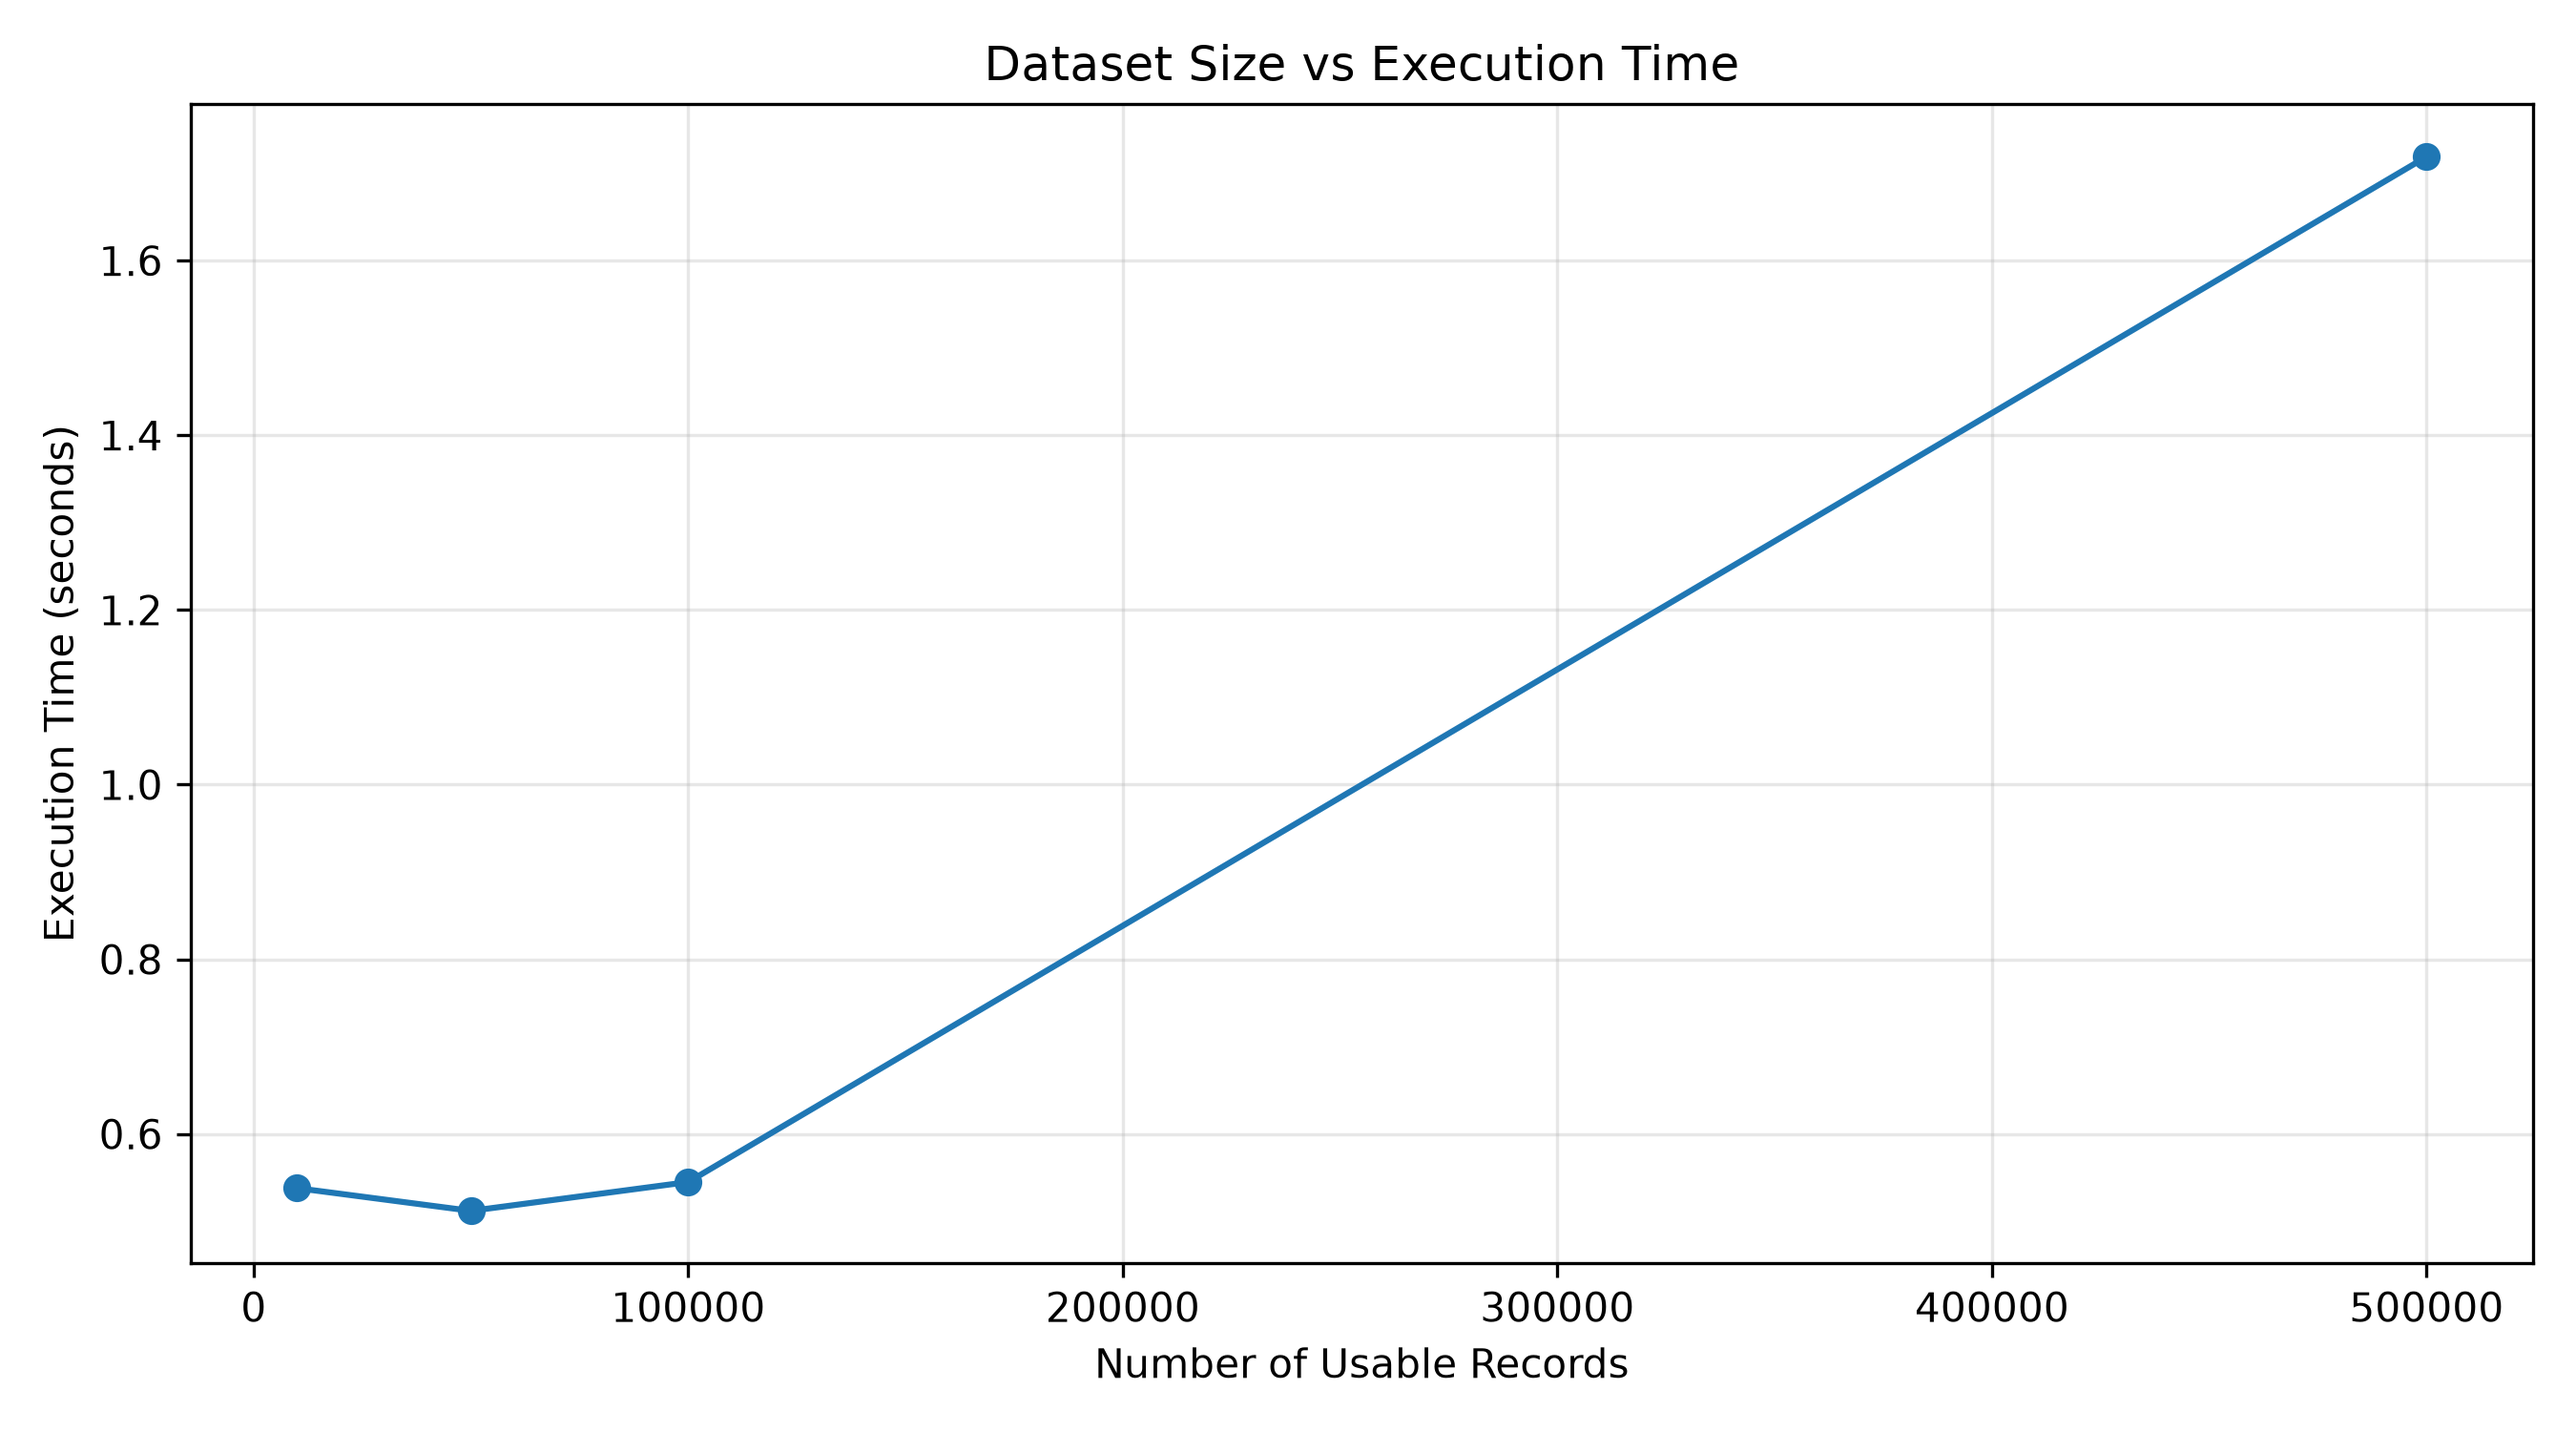
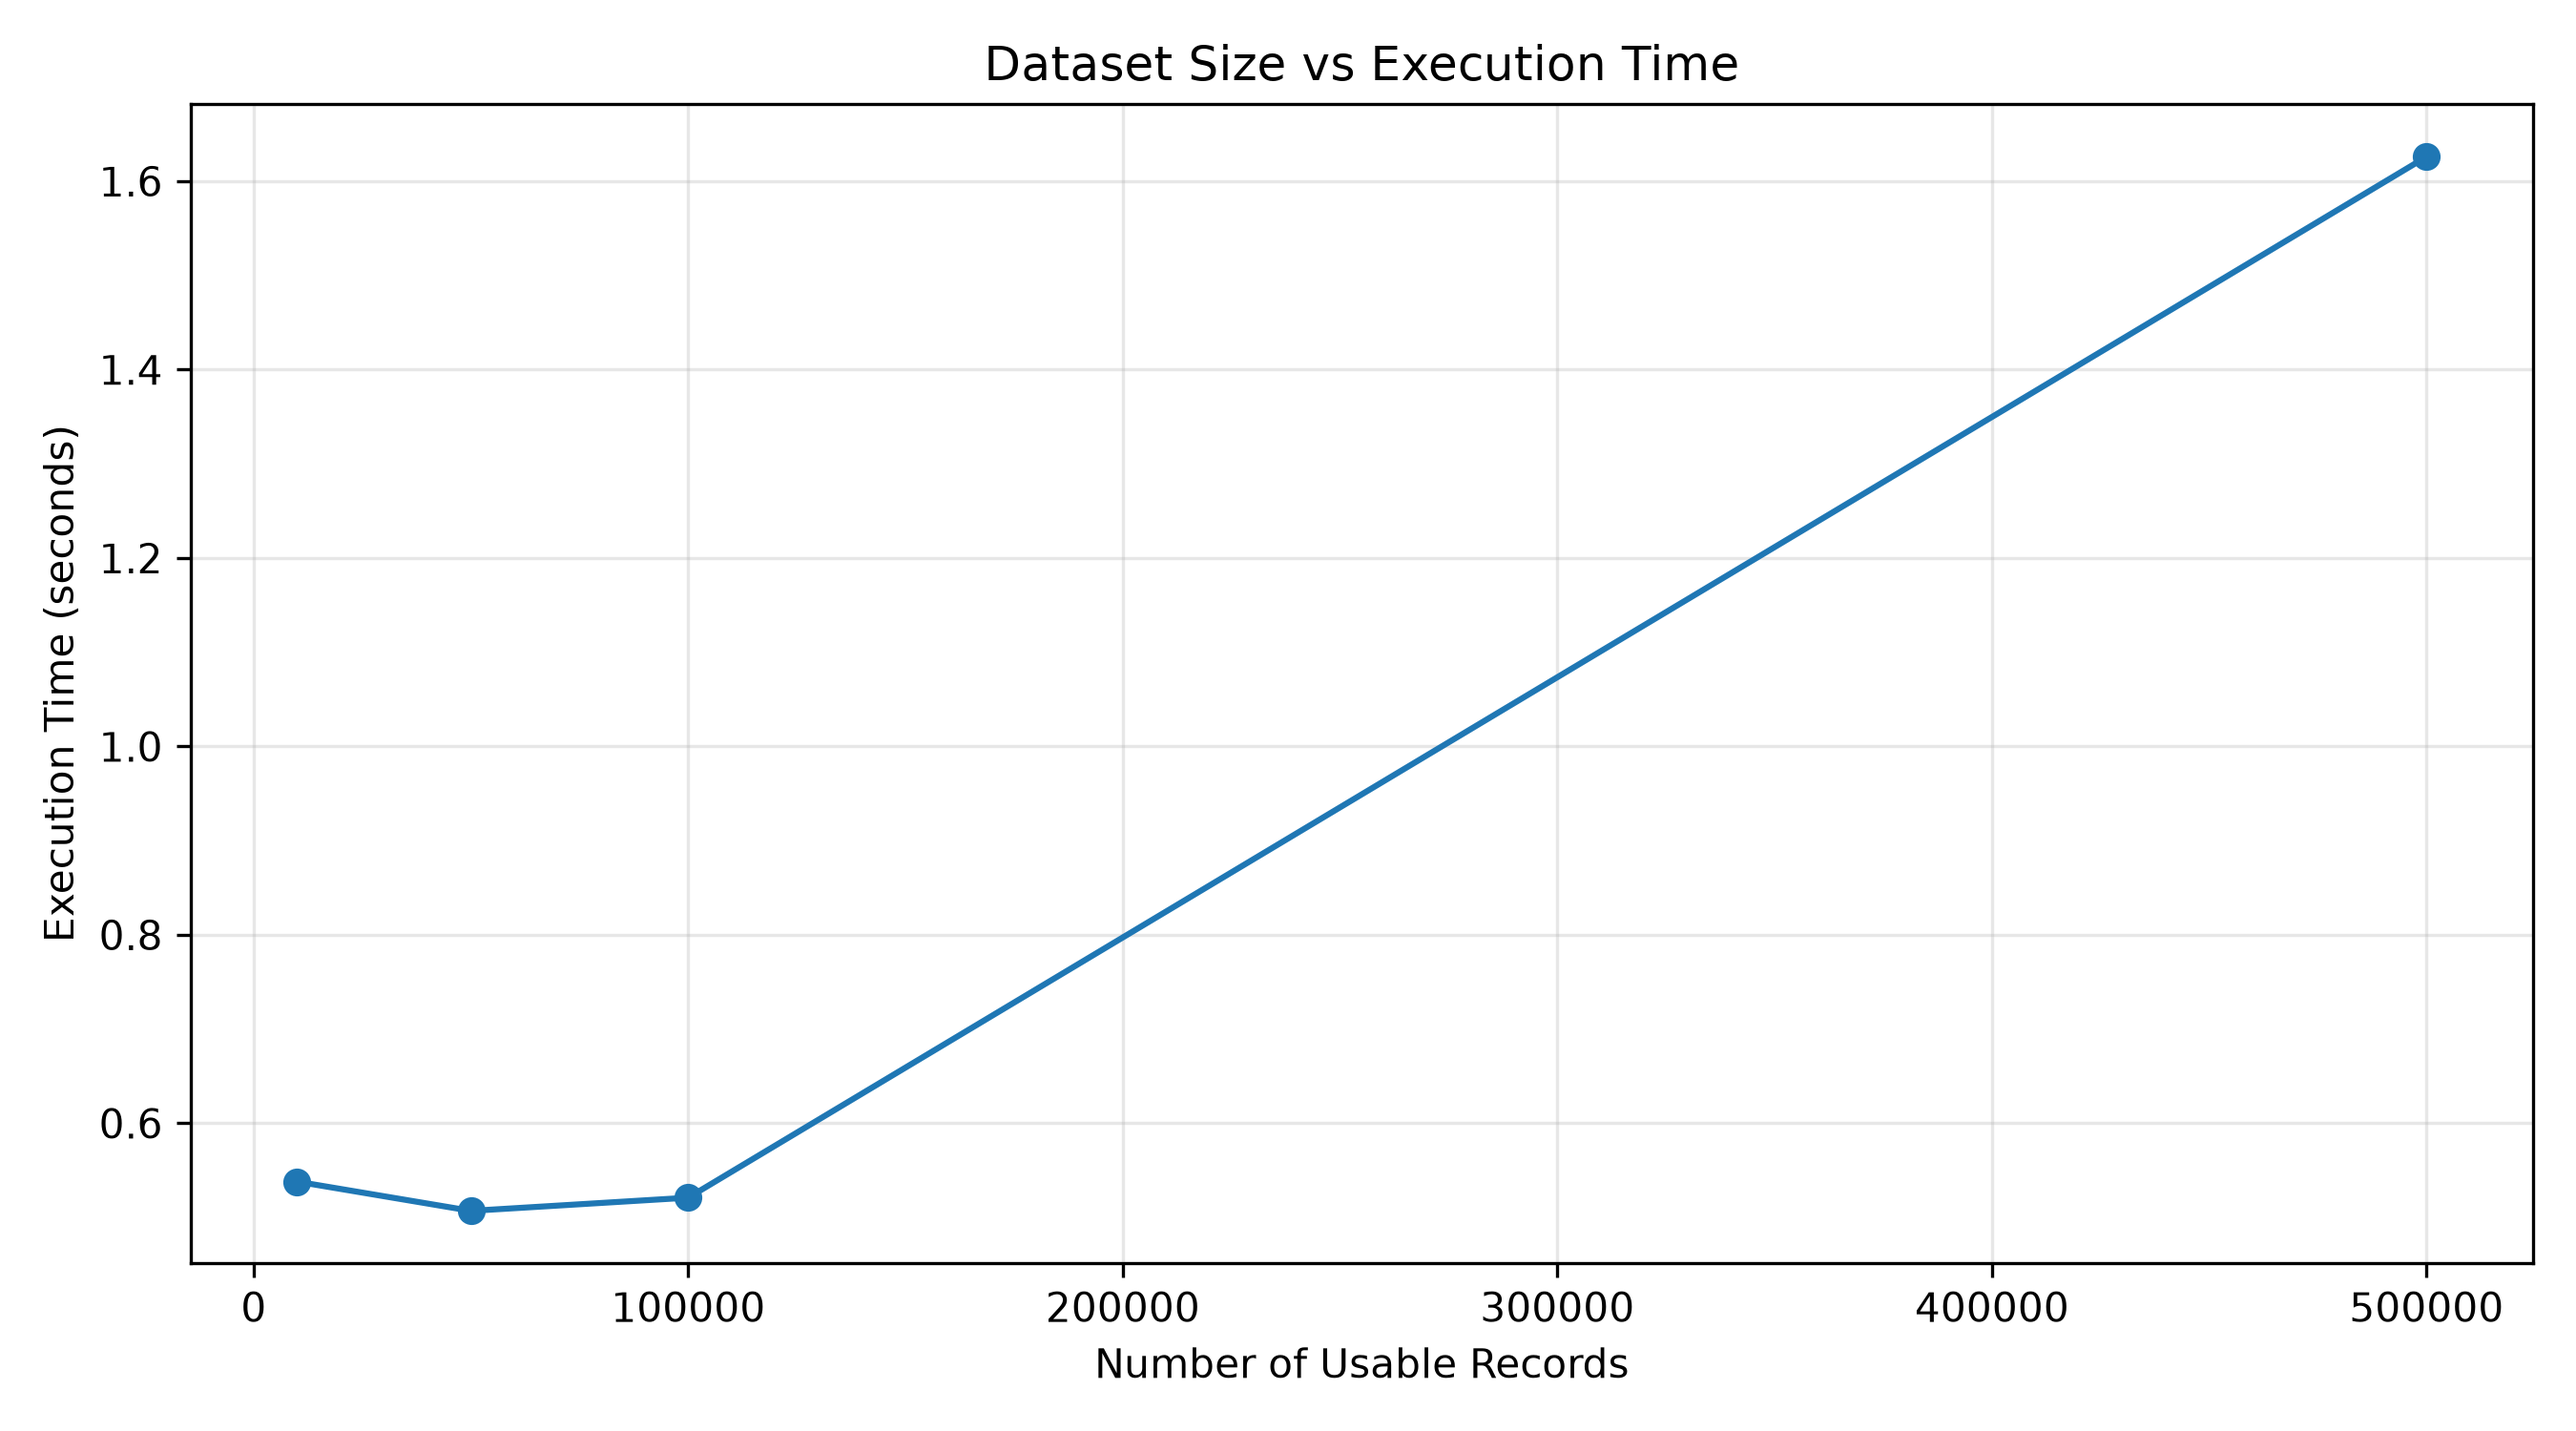
test: measure contract failure detection

diff --git a/src/failure_detection_experiment.py b/src/failure_detection_experiment.py
@@ -1,0 +1,138 @@
+import json
+import tempfile
+from pathlib import Path
+
+import pyarrow as pa
+import pyarrow.parquet as pq
+
+from src.contract_enforced_pipeline import validate_contract
+
+
+ROOT = Path(__file__).resolve().parent.parent
+CONTRACT_PATH = ROOT / "contracts" / "tlc_contract_v1.json"
+
+OUTPUT_DIR = ROOT / "results"
+OUTPUT_DIR.mkdir(exist_ok=True)
+
+
+def create_parquet(path, fields):
+    schema = pa.schema(fields)
+
+    data = {
+        field.name: pa.array([], type=field.type)
+        for field in schema
+    }
+
+    table = pa.table(data, schema=schema)
+    pq.write_table(table, path)
+
+
+def main():
+    scenarios = [
+        {
+            "name": "Missing required column",
+            "fields": [
+                ("trip_distance", pa.float64()),
+                ("passenger_count", pa.int64()),
+            ],
+            "expected_valid": False,
+            "breaking": True,
+        },
+        {
+            "name": "Wrong data type",
+            "fields": [
+                ("trip_distance", pa.string()),
+                ("passenger_count", pa.int64()),
+                ("fare_amount", pa.float64()),
+            ],
+            "expected_valid": False,
+            "breaking": True,
+        },
+        {
+            "name": "Additional compatible column",
+            "fields": [
+                ("trip_distance", pa.float64()),
+                ("passenger_count", pa.int64()),
+                ("fare_amount", pa.float64()),
+                ("new_optional_field", pa.float64()),
+            ],
+            "expected_valid": True,
+            "breaking": False,
+        },
+    ]
+
+    results = []
+
+    with tempfile.TemporaryDirectory() as temp_dir:
+        for index, scenario in enumerate(scenarios):
+            data_path = Path(temp_dir) / f"scenario_{index}.parquet"
+
+            create_parquet(data_path, scenario["fields"])
+
+            print(f"\nTesting: {scenario['name']}")
+
+            actual_valid = validate_contract(
+                data_path,
+                CONTRACT_PATH,
+            )
+
+            detected_correctly = (
+                actual_valid == scenario["expected_valid"]
+            )
+
+            results.append({
+                "scenario": scenario["name"],
+                "expected_valid": scenario["expected_valid"],
+                "actual_valid": actual_valid,
+                "breaking_change": scenario["breaking"],
+                "detected_correctly": detected_correctly,
+            })
+
+            print("Expected valid:", scenario["expected_valid"])
+            print("Actual valid:", actual_valid)
+            print("Correct outcome:", detected_correctly)
+
+    breaking_results = [
+        result for result in results
+        if result["breaking_change"]
+    ]
+
+    detected = sum(
+        result["detected_correctly"]
+        for result in breaking_results
+    )
+
+    total = len(breaking_results)
+
+    summary = {
+        "total_scenarios": len(results),
+        "breaking_scenarios": total,
+        "breaking_scenarios_detected_correctly": detected,
+        "breaking_change_detection_rate_percent": (
+            round(100 * detected / total, 2)
+            if total else None
+        ),
+        "compatible_scenarios_accepted": sum(
+            result["detected_correctly"]
+            for result in results
+            if not result["breaking_change"]
+        ),
+        "results": results,
+    }
+
+    output_path = OUTPUT_DIR / "failure_detection_results.json"
+
+    with open(output_path, "w", encoding="utf-8") as file:
+        json.dump(summary, file, indent=4)
+
+    print("\n=== Failure Detection Summary ===")
+    print(f"Breaking scenarios detected: {detected}/{total}")
+    print(
+        "Breaking-change detection rate:",
+        f"{summary['breaking_change_detection_rate_percent']}%",
+    )
+    print("Results saved to:", output_path)
+
+
+if __name__ == "__main__":
+    main()

diff --git a/tests/test_contract_enforcement.py b/tests/test_contract_enforcement.py
@@ -92,3 +92,39 @@ def test_additional_column_is_allowed(tmp_path):
     )
 
     assert validate_contract(parquet_path, contract_path) is True
+
+
+def test_renamed_required_column_is_rejected(tmp_path):
+    schema = pa.schema([
+        ("trip_distance_new", pa.float64()),
+        ("fare_amount", pa.float64()),
+    ])
+
+    parquet_path = create_test_parquet(tmp_path, schema)
+
+    contract_path = create_test_contract(
+        tmp_path,
+        {
+            "trip_distance": "double",
+            "fare_amount": "double",
+        },
+    )
+
+    assert validate_contract(parquet_path, contract_path) is False
+
+
+def test_additional_column_is_rejected_when_disallowed(tmp_path):
+    schema = pa.schema([
+        ("trip_distance", pa.float64()),
+        ("unexpected_column", pa.float64()),
+    ])
+
+    parquet_path = create_test_parquet(tmp_path, schema)
+
+    contract_path = create_test_contract(
+        tmp_path,
+        {"trip_distance": "double"},
+        allow_additional=False,
+    )
+
+    assert validate_contract(parquet_path, contract_path) is False

diff --git a/results/scaling_analysis/scaling_comparison.md b/results/scaling_analysis/scaling_comparison.md
@@ -3,6 +3,6 @@
 | dataset                         | contract_status   |   requested_rows |   records_used |   batch_size |   execution_time_seconds |   peak_process_memory_mb |    mae |    rmse | source_file                 |
 |:--------------------------------|:------------------|-----------------:|---------------:|-------------:|-------------------------:|-------------------------:|-------:|--------:|:----------------------------|
 | yellow_tripdata_2024-01.parquet | VALID             |            10000 |          10000 |        50000 |                   0.5380 |                 189.9000 | 3.5825 |  7.1344 | scaling_results_10000.json  |
-| yellow_tripdata_2024-01.parquet | VALID             |            50000 |          50000 |        50000 |                   0.5120 |                 196.3600 | 2.7495 |  6.3246 | scaling_results_50000.json  |
-| yellow_tripdata_2024-01.parquet | VALID             |           100000 |         100000 |        50000 |                   0.5450 |                 205.5800 | 2.8534 | 12.5028 | scaling_results_100000.json |
-| yellow_tripdata_2024-01.parquet | VALID             |           500000 |         500000 |        50000 |                   1.7190 |                 261.5400 | 2.4137 |  6.1987 | scaling_results_500000.json |
+| yellow_tripdata_2024-01.parquet | VALID             |            50000 |          50000 |        50000 |                   0.5070 |                 195.3200 | 2.7495 |  6.3246 | scaling_results_50000.json  |
+| yellow_tripdata_2024-01.parquet | VALID             |           100000 |         100000 |        50000 |                   0.5210 |                 203.2100 | 2.8534 | 12.5028 | scaling_results_100000.json |
+| yellow_tripdata_2024-01.parquet | VALID             |           500000 |         500000 |        50000 |                   1.6260 |                 253.4300 | 2.4137 |  6.1987 | scaling_results_500000.json |
